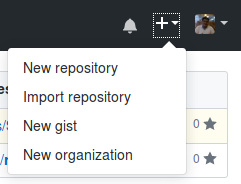
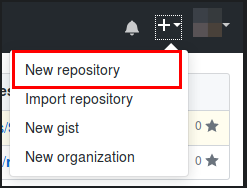
Part 1.2 TutorialGit, added new screenshots for tutorial and first part of tutorial

diff --git a/La_practica_hace_al_Maestro.md b/La_practica_hace_al_Maestro.md
@@ -6,6 +6,42 @@
 
   * Para empezar un proyecto en GIT con almacenamiento en GitHub, debemos en entrar a [GitHub](https://github.com/), una vez iniciado sesión, en la parte superior derecha, nos aparecerá a lado de nuestra foto de perfil un icono de :heavy_plus_sign:, al cuál al darle click desplegará un menú, donde debemos seleccionar la primera opción "New repository".
 
-    ![Tuto 1](images/TutoGit-1.png)
+    ![Image Tuto 1](images/TutoGit-1.png)
 
-  *
+  * Se motrará la siguiente pantalla, en la cuál una vez llenado los datos, podremos proceder a usar la terminal
+
+    ![Image Tuto 2](images/TutoGit-2.png)
+
+  * Primero se debe de asignar un nombre y descripción al nnuevo repositorio.
+
+    ![Image Tuto 3](images/TutoGit-3.png)
+
+    * Después seleccionar el tipo de repositorio que se va a crear, los cuales pueden ser:
+
+      ![Image Tuto 3](images/TutoGit-4.png)
+
+      * Público: Da al repositorio la propiedad como su nombre lo indica que sea público y cualquier usuario con cuenta de GitHub pueda acceder / clonar / descargarlo. P.D. Esta opción es gratis.
+
+      * Privado: Brinda la capacidad de definir quienes pueden ver, aportar, descargar / clonar el repositorio para poder ayudar en el trabajo del proyecto añadiendo colaboradores que cuenten con una cuenta de GitHub. P.D. Esta opción es de paga.
+
+  * Posteriormente se puede marcar la opción de crear un repositorio con un archivo README.md
+
+    ![Image Tuto 3](images/TutoGit-5.png)
+
+    * y seleccionar si se crea el archivo .gitignore el cual dependiendo del proyecto o el lenguaje en el que se vaya a trabajar cambia la creación por defecto del archivo.
+
+      ![Image Tuto 3](images/TutoGit-6.png)
+
+    * Por último se puede seleccionar una licencia, la más común es la "MIT License" la cual no da crédito de lo que este en el proyecto y que se debe de reconocer a él/los autores del mismo en caso de hacer uso del proyecto en cuestión o modificaciones al mismo implementándolo en algún otro proyecto.
+
+      ![Image Tuto 3](images/TutoGit-7.png)
+
+  * Por último se debe presionar el botón "Create repository"
+
+    ![Image Tuto 3](images/TutoGit-8.png)
+
+ 2. Crea un documento que explique los siguiente.
+
+    - ¿Que es Markdown?
+    - ¿Donde se utiliza?
+    - ¿Cuales son las palabras claves mas utilizadas en Markdown?
